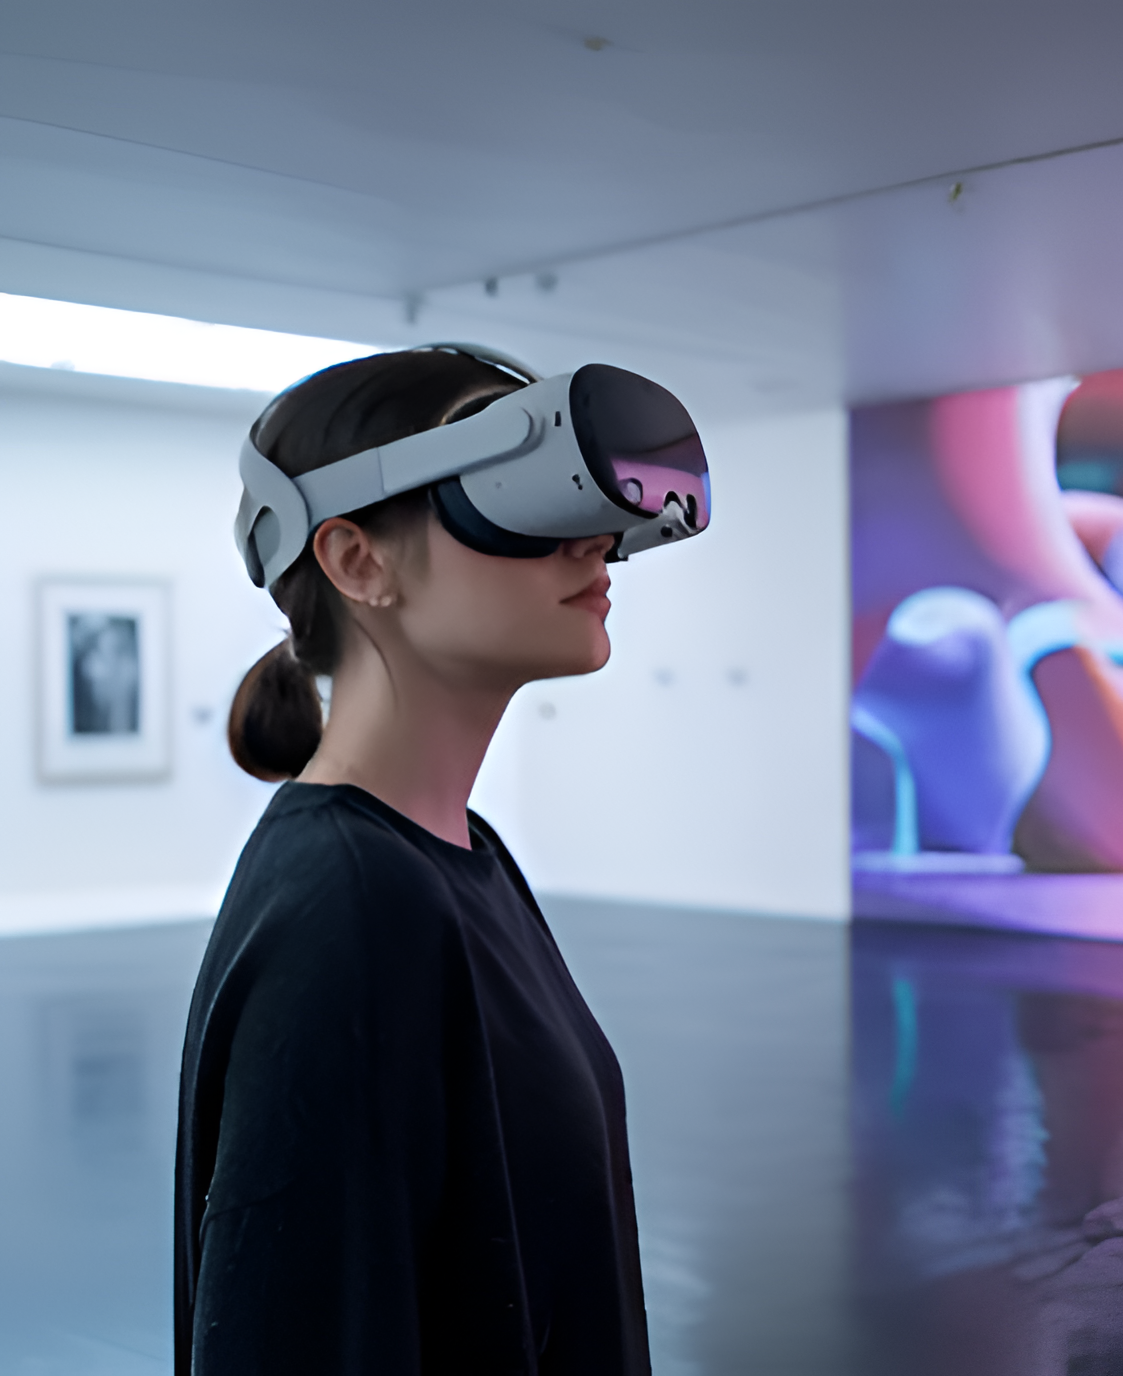
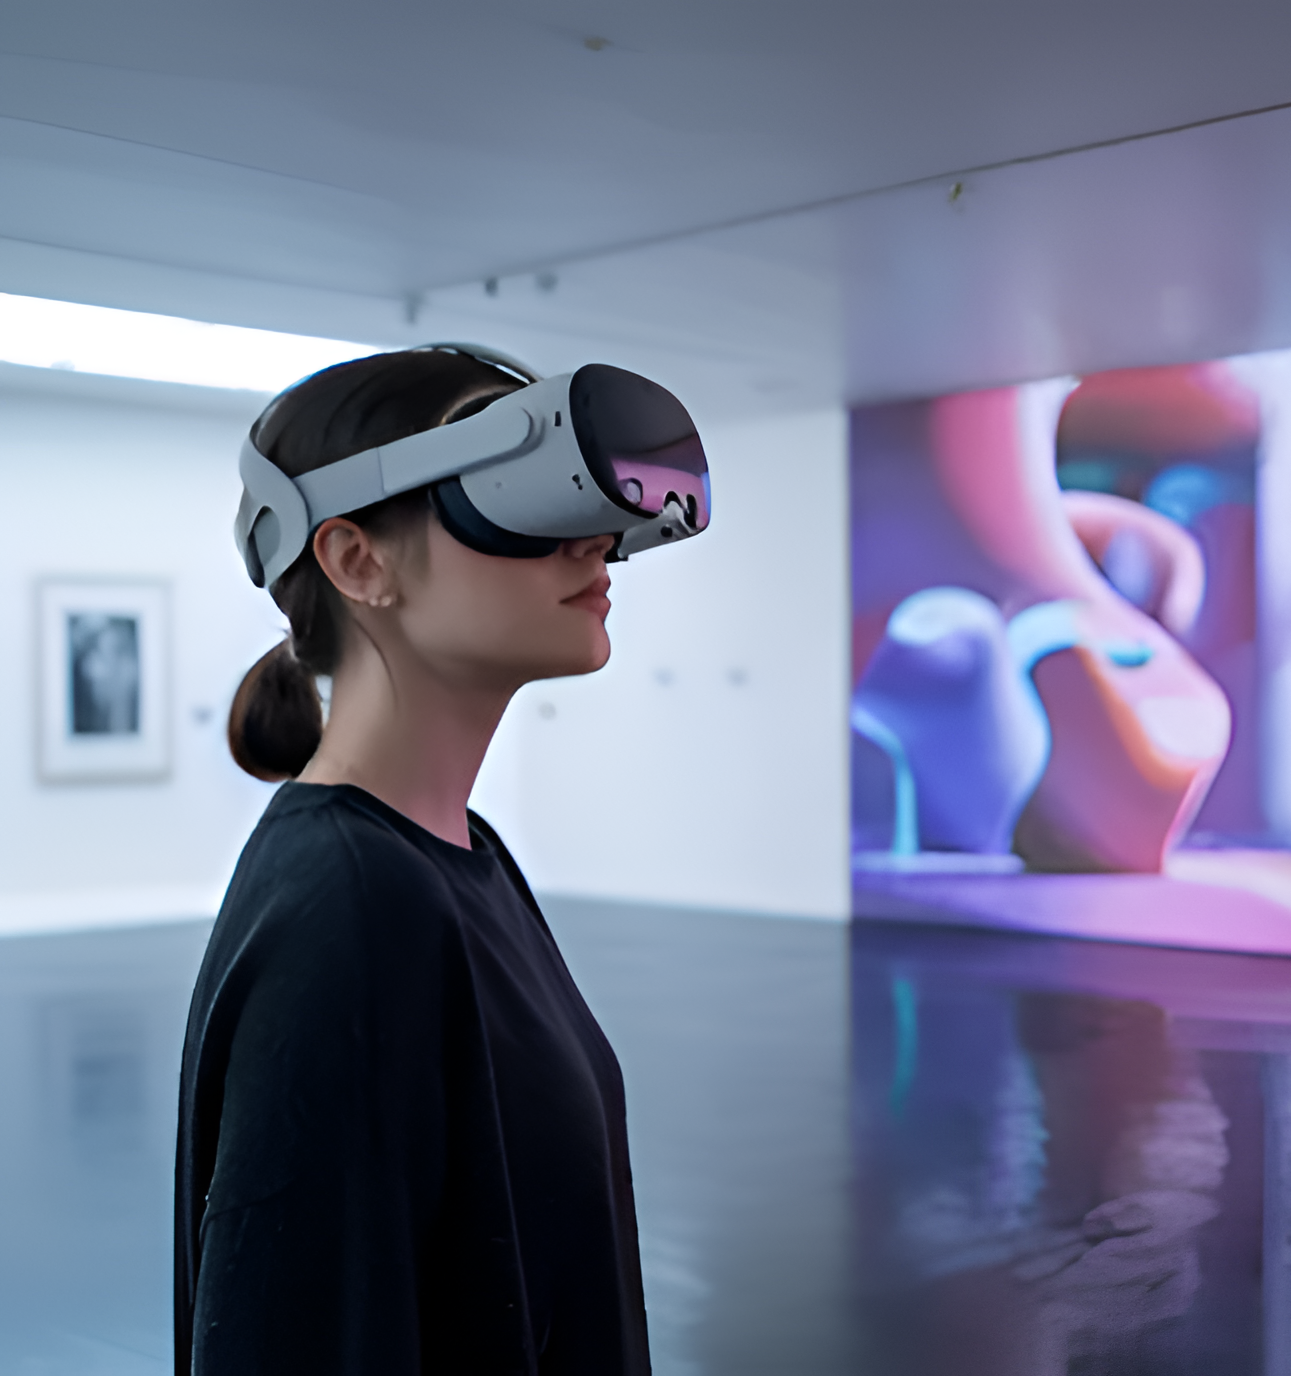
prueba imagen fondo

diff --git a/css/homepage.css b/css/homepage.css
@@ -277,6 +277,10 @@ header > button {
 
     .menu-navegacion { display: none; }
     .area-usuario-dropdown, a.area-usuario { display: none !important; }
+
+    .btn-bajar {
+        display: none !important;
+    }
 }
 
 @media (max-width: 800px) {
@@ -339,9 +343,8 @@ header > button {
 }
 
 @media (max-width: 550px) {
-    /* En móviles muy pequeños, anclamos a la izquierda */
     main .img-fondo-container img {
-        object-position: left center; /* Equivale a 0% center */
+        object-position: left center;
     }
 
     .info_principal {
@@ -360,6 +363,38 @@ header > button {
     .info_principal a {
         font-size: 14px;
         padding: 10px 15px;
+        border-radius: 10px;
+    }
+}
+
+@media (max-width: 500px) {
+    /* Al cargar img_fondo_movil.jpeg, centramos la imagen.
+       (Cámbialo a 'left center' o 'right center' si tu foto de móvil lo necesita) */
+    main .img-fondo-container img {
+        object-position: left center;
+    }
+
+    .info_principal {
+        /* En móviles pequeños, solemos centrar la caja o hacerla más ancha
+           para que el texto no quede muy aplastado */
+        left: 50%;
+        right: auto;
+        transform: translate(-50%, -40%); /* Lo volvemos a centrar horizontalmente */
+
+        width: 85%; /* Ocupa casi todo el ancho del móvil */
+        min-width: 220px;
+        padding: 20px 15px;
+        border-radius: 20px;
+    }
+
+    .info_principal h2 {
+        font-size: 17px; /* Un pelín más grande para que sea legible en móvil */
+        line-height: 1.4;
+    }
+
+    .info_principal a {
+        font-size: 15px;
+        padding: 12px 18px;
         border-radius: 10px;
     }
 }

diff --git a/homepage.php b/homepage.php
@@ -76,8 +76,9 @@
 <main>
     <!-- Etiqueta picture: cambia la imagen automáticamente según la pantalla -->
     <picture class="img-fondo-container">
+        <source media="(max-width: 500px)" srcset="src/images/img_fondo_movil.jpeg">
         <source media="(max-width: 600px)" srcset="src/images/img_fondo_medio.jpeg">
-        <source media="(max-width: 1000px)" srcset="src/images/img_fondo_tablet-2.png">
+        <source media="(max-width: 1000px)" srcset="src/images/img_fondo_tablet.png">
         <img src="src/images/img_fondo.png" alt="imagen de fondo">
     </picture>
 
